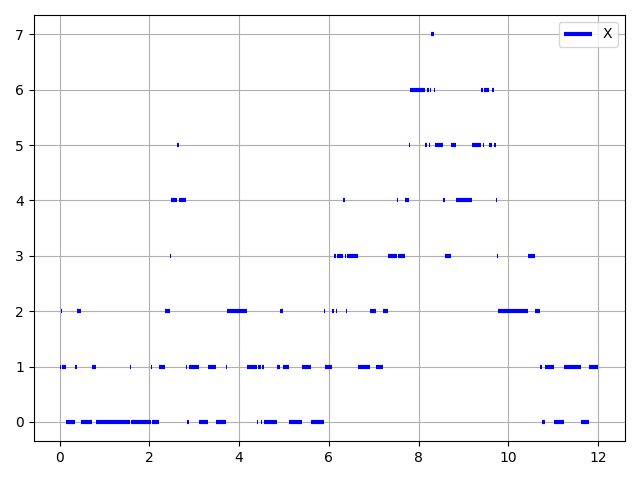
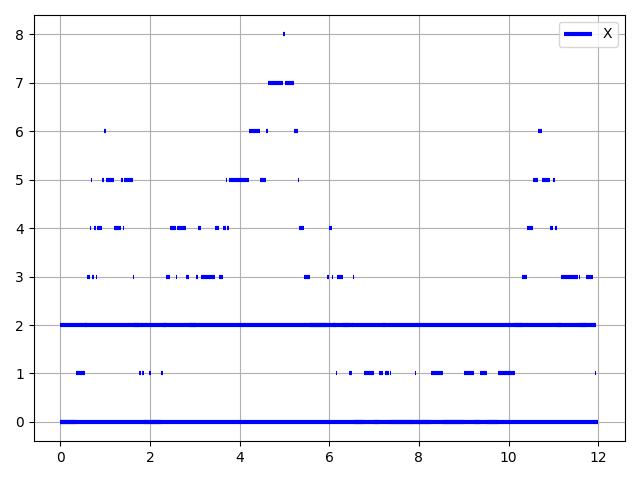
started on priority-queue

diff --git a/task1/task1g.py b/task1/task1g.py
@@ -12,123 +12,214 @@ T = 50 * 24 * 60
 
 
 class Queue:
-    def __init__(self, max_length: int) -> None:
-        # Array with treatment_times
-        self.p_queue = np.zeros(max_length, dtype=np.int64)
-        self.p_front = 0
-        self.p_back = 0
+    def __init__(self, max_length) -> None:
+        self.max_length = max_length
 
         # Array with treatment_times
-        self.queue = np.zeros(max_length, dtype=np.int64)
-        self.front = 0
+        self.queue = np.zeros(max_length)
+        self.head = 0
         self.back = 0
 
+    def pop(self) -> float:
+        treatment_time = self.queue[self.head]
+        self.head += 1
+        return treatment_time
+
+    def update_treatment_time(self, treatment_time: float):
+        self.queue[self.head] = treatment_time
+
+    def append(self, treatment_time: float):
+        self.queue[self.back] = treatment_time
+        self.back += 1
+
+    @property
+    def treatment_time(self):
+        return self.queue[self.head]
+
+    @property
+    def empty(self):
+        return self.head == self.back
+
+    @property
+    def length(self):
+        if self.head <= self.back:
+            return self.back - self.head
+        return self.back - self.head + self.max_length
+
+
+class UCC:
+    def __init__(self, m: float, l: float, p: float, T: float) -> None:
+        self.m = m
+        self.l = l
+        self.p = p
+        self.T = T
+        self.current_time = 0
+
+        # Init random variables
+        self.n_patients = np.random.poisson(self.l * T)
+        self.classification = np.random.binomial(1, self.p, size=self.n_patients)
+        print(self.classification)
+        self.n_urgent_patients = np.count_nonzero(self.classification)
+        print(self.n_urgent_patients)
+        self.n_normal_patients = self.n_patients - self.n_urgent_patients
+
+        # We know how many customers arrived in the 50 days, so the arrival times
+        # are uniformly distributed
+        self.arrival_times = np.sort(np.random.uniform(0, T, size=self.n_patients))
+
+        # The treatment times are exponentially distributed
+        self.treatment_times = np.random.exponential(1 / mu, size=self.n_patients)
+
+        # Array with treatment_times
+        self.priority_queue = Queue(self.n_urgent_patients)
+        self.normal_queue = Queue(self.n_normal_patients)
+
+        # Index into how far we have many patients have arrived
+        self.i_patients = 0
+
         self.service = 0  # 0: None, 1: priority, 2: normal
-        self.service_end = 0
+        self.service_endtime = np.inf
 
-    def append(self, arrival_time: float, treatment_time: float, priority: bool):
-        if priority:
-            self.p_queue[self.p_back] = treatment_time
-            self.p_back += 1
-            if self.p_back == len(self.p_queue):
-                self.p_back = 0
+    def next_step(self) -> bool:
+        if (
+            self.i_patients < self.n_patients - 1
+            and self.arrival_times[self.i_patients + 1] <= self.service_endtime
+        ):
+            self.current_time = self.arrival_times[self.i_patients + 1]
+            self.new_arrival()
         else:
-            self.queue[self.back] = treatment_time
-            self.back += 1
-            if self.back == len(self.queue):
-                self.back = 0
+            self.current_time = self.service_endtime
+            # If the current_time exceed T, we are done with the simulation
+            if self.current_time > self.T:
+                return True
+            self.complete_service()
+        return False
 
-        # Start treatment
-        if self.service == 0:
-            self.start_service(arrival_time, treatment_time, priority)
-        elif self.service == 2 and priority:
-            self.start_service(arrival_time, treatment_time, priority)
-
-    def start_service(self, current_time, treatment_time, priority):
+    def new_arrival(self):
+        self.i_patients += 1
+        priority = self.classification[self.i_patients]
+        treatment_time = self.treatment_times[self.i_patients]
         if priority:
+            self.priority_queue.append(treatment_time)
+        else:
+            self.normal_queue.append(treatment_time)
+
+        if self.service == 0:
+            self.start_service()
+        elif self.service == 2 and priority:
+            self.interrupt_service()
+
+    def interrupt_service(self):
+        # Create new treatment time to the interrupted patient
+        self.normal_queue.update_treatment_time(np.random.exponential(1 / self.m))
+        self.start_service()
+
+    def start_service(self):
+        assert not (
+            self.priority_queue.empty and self.normal_queue.empty
+        ), "We can not start a service if the queue is empty."
+
+        if not self.priority_queue.empty:
             self.service = 1
+            treatment_time = self.priority_queue.treatment_time
         else:
             self.service = 2
-        self.service_end = current_time + treatment_time
+            treatment_time = self.normal_queue.treatment_time
+        self.service_endtime = self.current_time + treatment_time
 
-    def end_service(self):
-        pass
+    def complete_service(self):
+        assert not (
+            self.priority_queue.empty and self.normal_queue.empty
+        ), "Can not complete a service if none are being served."
+        # One patient walk out
+        if self.service == 1:
+            self.priority_queue.pop()
+        else:
+            self.normal_queue.pop()
 
-    def pop(self, priority: bool):
-        pass
+        # One new patient starts recieving treatment if there is a patient in the queue
+        if not (self.priority_queue.empty and self.normal_queue.empty):
+            self.start_service()
+        else:
+            # If there are no patients, none are treated
+            self.service = 0
+            self.service_endtime = np.inf
+
+    @property
+    def N(self):
+        return self.normal_queue.length
+
+    @property
+    def U(self):
+        return self.priority_queue.length
+
+    @property
+    def X(self):
+        return self.N + self.U
 
 
-def simulate_realization():
-    # Get how many customers arrived in 50 days
-    n_patients = np.random.poisson(lam * T)
-    n_urgent_patients = np.random.binomial(n_patients, p)
-    n_normal_patients = n_patients - n_urgent_patients
-    # We know how many customers arrived in the 50 days, so the arrival times
-    # are uniformly distributed.
-    urgent_arrival_times = np.sort(np.random.uniform(0, T, size=n_urgent_patients))
-    normal_arrival_times = np.sort(np.random.uniform(0, T, size=n_normal_patients))
-    # We need at maximum n_patients**2 treating times
-    urgent_treatment_times = np.random.exponential(1 / mu, size=n_urgent_patients)
-    normal_treatment_times = np.random.exponential(1 / mu, size=n_patients)
+def simulate_realization(m, l, p, T) -> tuple[
+    tuple[np.ndarray, np.ndarray],
+    tuple[np.ndarray, np.ndarray],
+    tuple[np.ndarray, np.ndarray],
+]:
+    ucc = UCC(m, l, p, T)
 
     # At most 2*n_customers events will happen
-    N = np.zeros(2 * n_normal_patients)
-    U = np.zeros(2 * n_urgent_patients)
-    X = np.zeros(2 * n_patients)
-    time_U = np.zeros(2 * n_urgent_patients)
-    time_N = np.zeros(2 * n_normal_patients)
-    time_X = np.zeros(2 * n_patients)
+    N = np.zeros(2 * ucc.n_normal_patients + 1)
+    U = np.zeros(2 * ucc.n_urgent_patients + 1)
+    X = np.zeros(2 * ucc.n_patients + 1)
+    time_N = np.zeros_like(N)
+    time_U = np.zeros_like(U)
+    time_X = np.zeros_like(X)
 
-    u_arrival = 1  # Arrival index
-    u_treatment = 0  # Releasetime index
+    iN, iU, iX = 1, 1, 1
 
-    i_arrival = 1  # Arrival index
-    i_treatment = 0  # Releasetime index
-
-    # Init
-    X[0] = 1
-    if urgent_arrival_times[0] <= normal_arrival_times[0]:
-        time[0] = urgent_arrival_times[0]
-        U[0] = 1
-    else:
-        pass
-
-    while i_a < n_patients and time[i_a + i_r] <= T:
-        # If someone arrives before current service is done
-        if arrival_times[i_a] < release_time:
-            X[i_a + i_r] = X[i_a + i_r - 1] + 1
-            time[i_a + i_r] = arrival_times[i_a]
-            i_a += 1
-        # Else the next event is that the service is done
-        else:
-            X[i_a + i_r] = X[i_a + i_r - 1] - 1
-            time[i_a + i_r] = release_time
-            i_r += 1
-            if X[i_a + i_r - 1] == 0:
-                # If X == 0, the next release time is the arrival_time of the next customer + its service time
-                release_time = arrival_times[i_r] + treatment_times[i_r]
-            else:
-                # Else the next release time is the current time + next service time
-                release_time = release_time + treatment_times[i_r]
+    done = False
+    while not done:
+        done = ucc.next_step()
+        if done:
+            break
+        n, u, x = ucc.N, ucc.U, ucc.X
+        current_time = ucc.current_time
+        if N[iN - 1] != n:
+            N[iN] = n
+            time_N[iN] = current_time
+            iN += 1
+        if U[iU - 1] != u:
+            U[iU] = u
+            time_U[iU] = current_time
+            iU += 1
+        if X[iX - 1] != x:
+            X[iX] = x
+            time_X[iX] = current_time
+            iX += 1
 
     # Only return the relevant parts of the array, the rest is still zero
-    return time[: i_a + i_r], X[: i_a + i_r]
+    return (
+        (time_N[: iN + 1], N[: iN + 1]),
+        (time_U[: iU + 1], U[: iU + 1]),
+        (time_X[: iX + 1], X[: iX + 1]),
+    )
 
 
 def average_time_spent():
-    t, x = simulate_realization()
+    n, u, x = simulate_realization(mu, lam, p, T)
+    print(n)
+    print(u)
+    print(x)
     # Construct weights for the weighted average
-    delta_t = np.zeros_like(t)
-    delta_t[:-1] = t[1:] - t[:-1]
-    delta_t[-1] = T - t[-1]
+    # delta_t = np.zeros_like(t)
+    # delta_t[:-1] = t[1:] - t[:-1]
+    # delta_t[-1] = T - t[-1]
 
     # L is the average of X weighted by the time X stayed constant
-    L = np.average(x, 0, delta_t)
+    # L = np.average(x, 0, delta_t)
     # We start a bit out in the array so the state has "stabilized"
     # L = np.average(x[100:], 0, delta_t[100:])
 
     # By Little's law
-    return L / lam
+    # return L / lam
 
 
 def CI():
@@ -154,23 +245,23 @@ def plot_steps(axs, x: np.ndarray, y: np.ndarray, end: float, color, **kwargs):
     return line
 
 
-def task1b():
-    t, x = simulate_realization()
-    t /= 60  # Convert to hours
+def task1g():
     stop_time = 12  # minutes in 12 hours
-    (indices,) = np.where(t <= stop_time)
+    n, u, x = simulate_realization(mu, lam, p, 12 * 60)
+    # (indices,) = np.where(t <= stop_time)
 
     fig, axs = plt.subplots()
-    line1 = plot_steps(axs, t[indices], x[indices], stop_time, "blue")
+    line1 = plot_steps(axs, x[0] / 60, x[1], stop_time, "blue")
     axs.legend([line1], ["X"])
     axs.grid()
     fig.tight_layout()
     fig.savefig("./plots/task1b.png")
 
-    avg, lower, upper = CI()
-    print()
-    print("Avg: ", avg)
-    print(f"CI: [{lower:.3f}, {upper:.3f}]")
+    # avg, lower, upper = CI()
+    # print()
+    # print("Avg: ", avg)
+    # print(f"CI: [{lower:.3f}, {upper:.3f}]")
 
 
-task1b()
+# average_time_spent()
+task1g()
